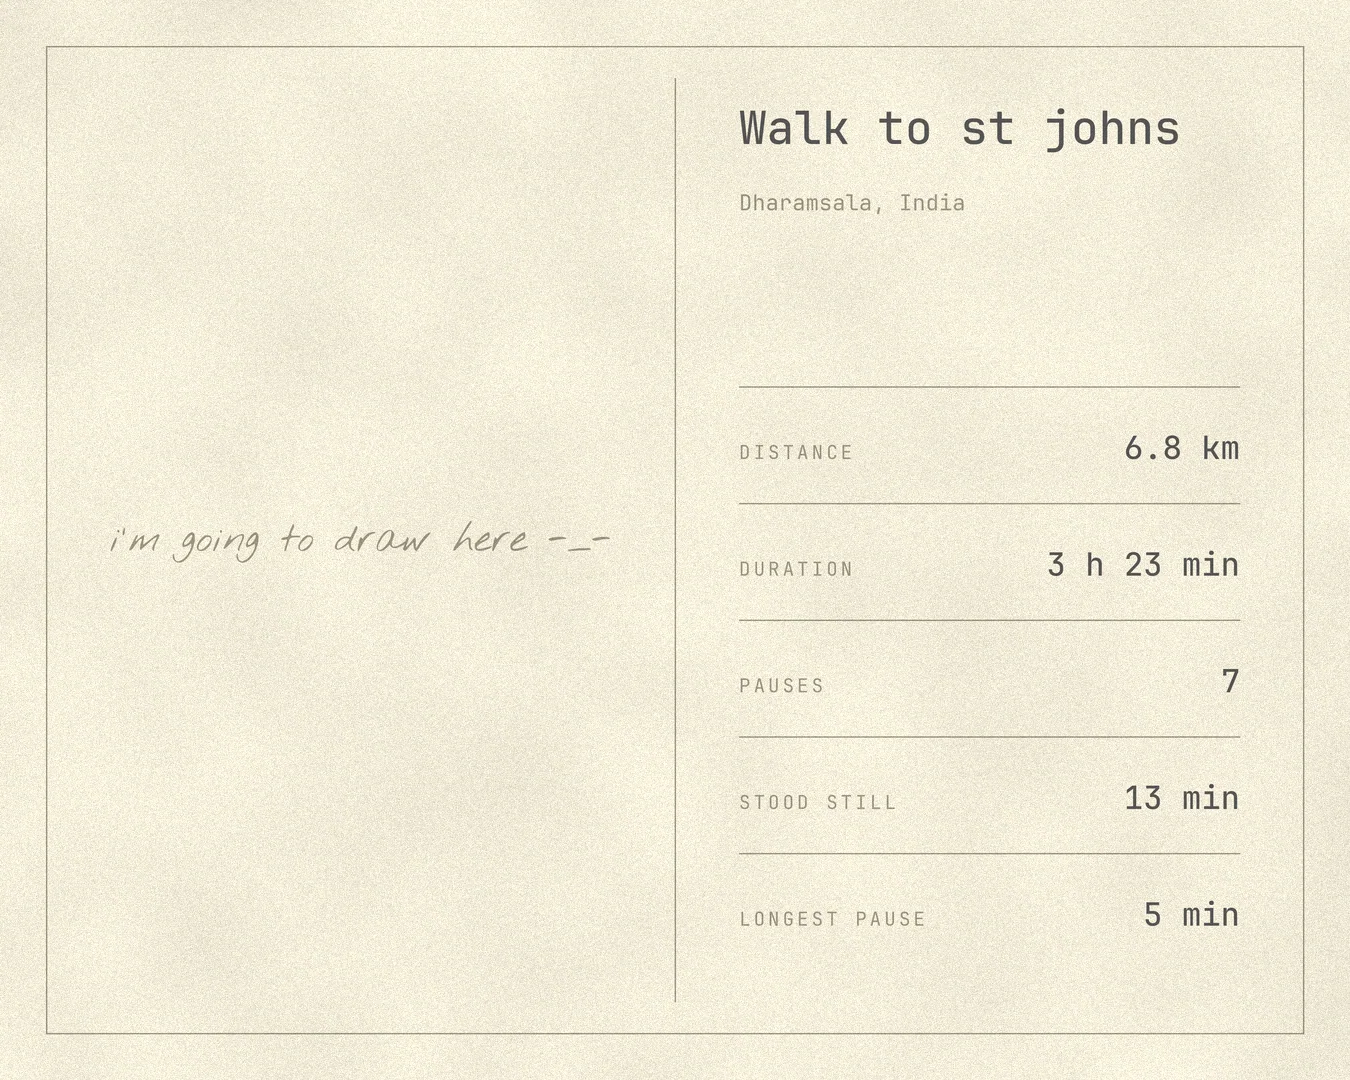
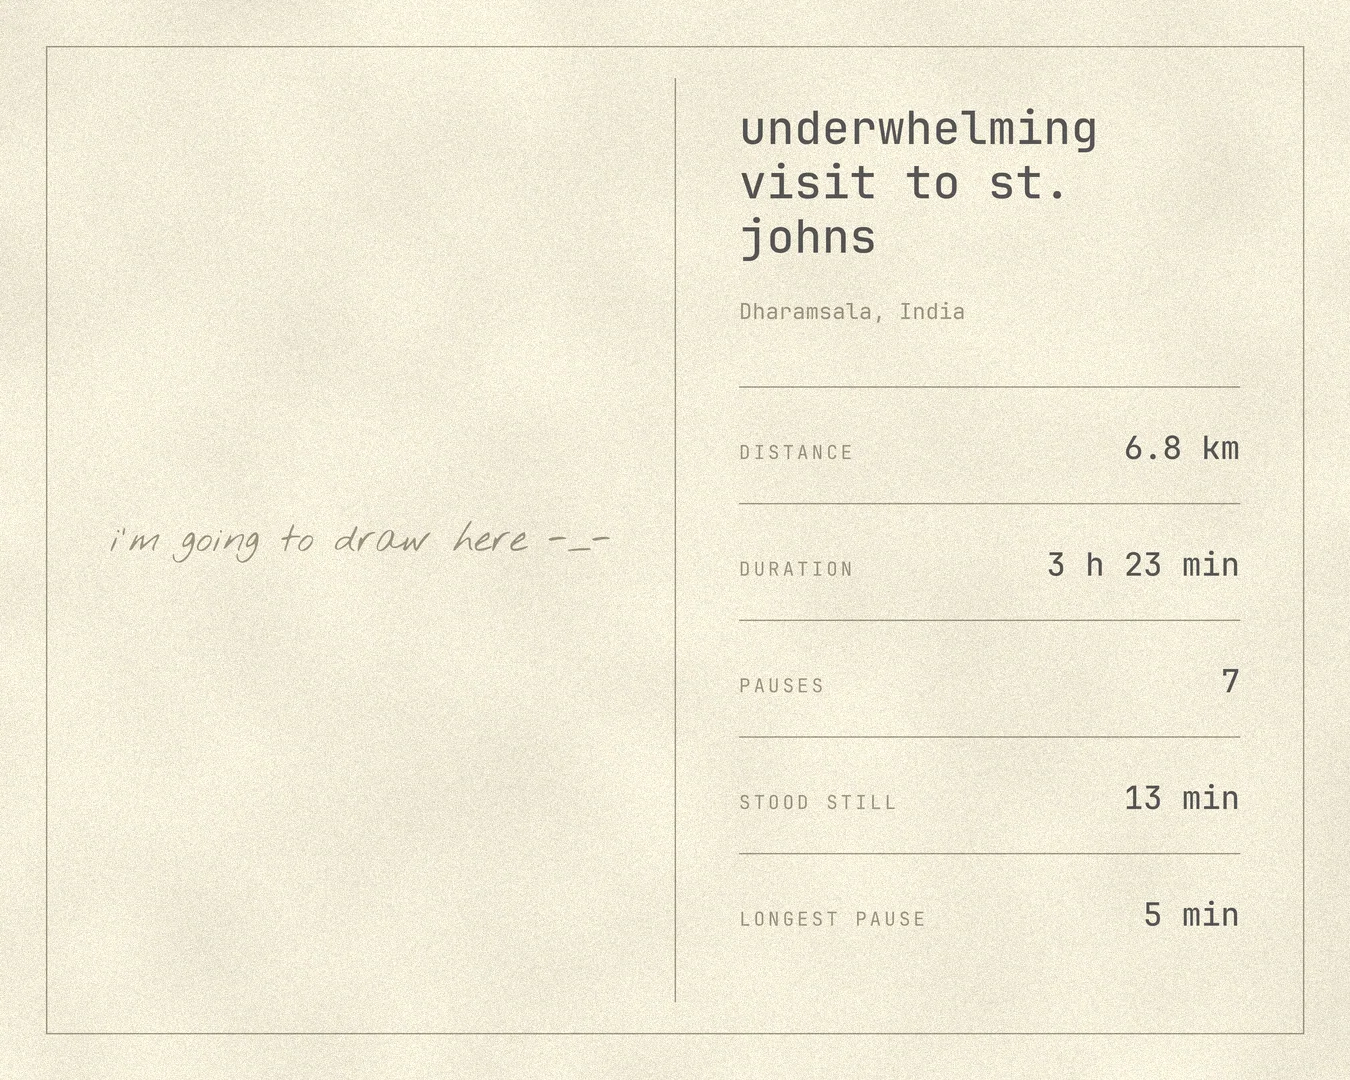
Retitle three walks, and fix the weight argument I left undefined
mcleodganj, st johns and the Kempagowda sprint take their new names from
captions.txt. The size held at 25 pt on the front and 46 pt on the back,
so no other card was affected. The airport caption now fills all three
lines it is allowed on the back, which is as long as it can grow before
the heading starts shrinking.

The weight argument added to shared_size went into shared_wrapped_size
as well, which has no such parameter, because the two functions share
the line it was substituted into. Nothing caught it: the change was made
after the last full run, and drawing a card is the only thing that calls
the wrapped version.

Changed region(s): [[0.5289, 0.0917, 0.8711, 0.2444], [0.56, 0.275, 0.7156, 0.3056]]

diff --git a/cards/gallery.js b/cards/gallery.js
@@ -2,7 +2,7 @@ window.WALKS = [
   {
     "name": "Walk to mcleodganj",
     "file": "Walk_to_mcleodganj",
-    "caption": "Walk to mcleodganj",
+    "caption": "inevitable quiet walk post an argument",
     "location": "Dharamsala, India",
     "front": "Walk_to_mcleodganj-front.webp",
     "back": "Walk_to_mcleodganj-back.webp",
@@ -30,7 +30,7 @@ window.WALKS = [
   {
     "name": "Walk to st johns",
     "file": "Walk_to_st_johns",
-    "caption": "Walk to st johns",
+    "caption": "underwhelming visit to st. johns",
     "location": "Dharamsala, India",
     "front": "Walk_to_st_johns-front.webp",
     "back": "Walk_to_st_johns-back.webp",
@@ -142,7 +142,7 @@ window.WALKS = [
   {
     "name": "Kempagowda Security check-in and sprinting to see monisha",
     "file": "Kempagowda_Security_check-in_and_sprinting_to_see_monisha",
-    "caption": "Pulling a rom-com sprint",
+    "caption": "Pulling a rom-com sprint at the airport",
     "location": "Bengaluru, India",
     "front": "Kempagowda_Security_check-in_and_sprinting_to_see_monisha-front.webp",
     "back": "Kempagowda_Security_check-in_and_sprinting_to_see_monisha-back.webp",

diff --git a/make_postcards.py b/make_postcards.py
@@ -209,7 +209,8 @@ def wrap_text(ruler, text, font, room):
     return lines or [""]
 
 
-def shared_wrapped_size(texts, room, start, max_lines, floor=MIN_FONT):
+def shared_wrapped_size(texts, room, start, max_lines, floor=MIN_FONT,
+                        weight="medium"):
     """One size for a caption that is allowed to run onto several lines.
 
     Squeezing a long caption onto a single line makes it smaller than the
